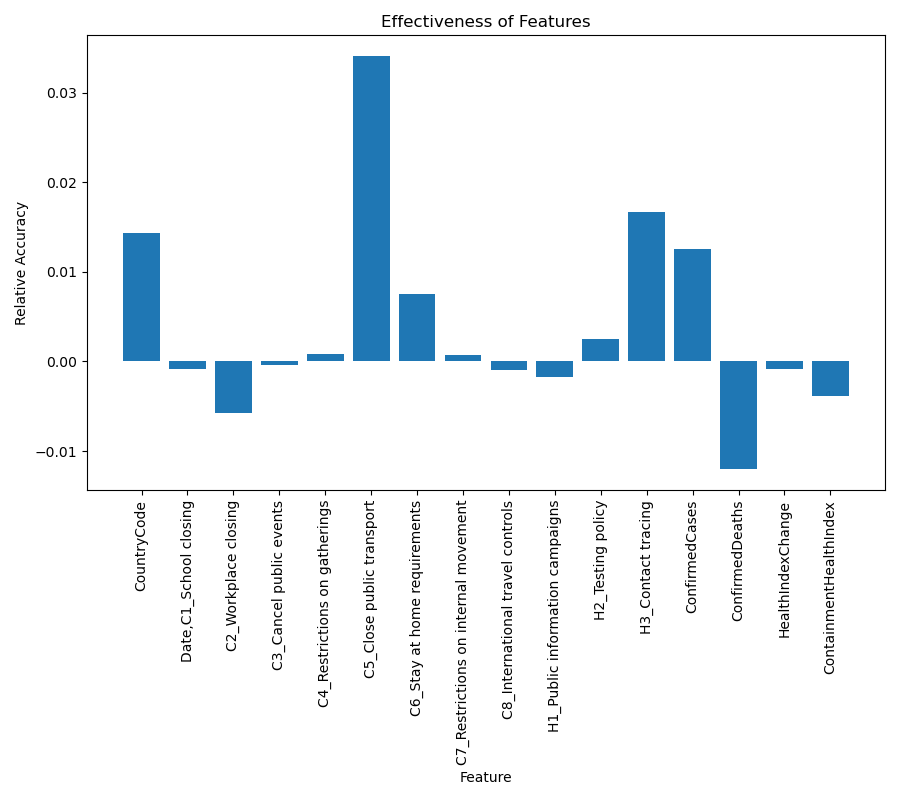
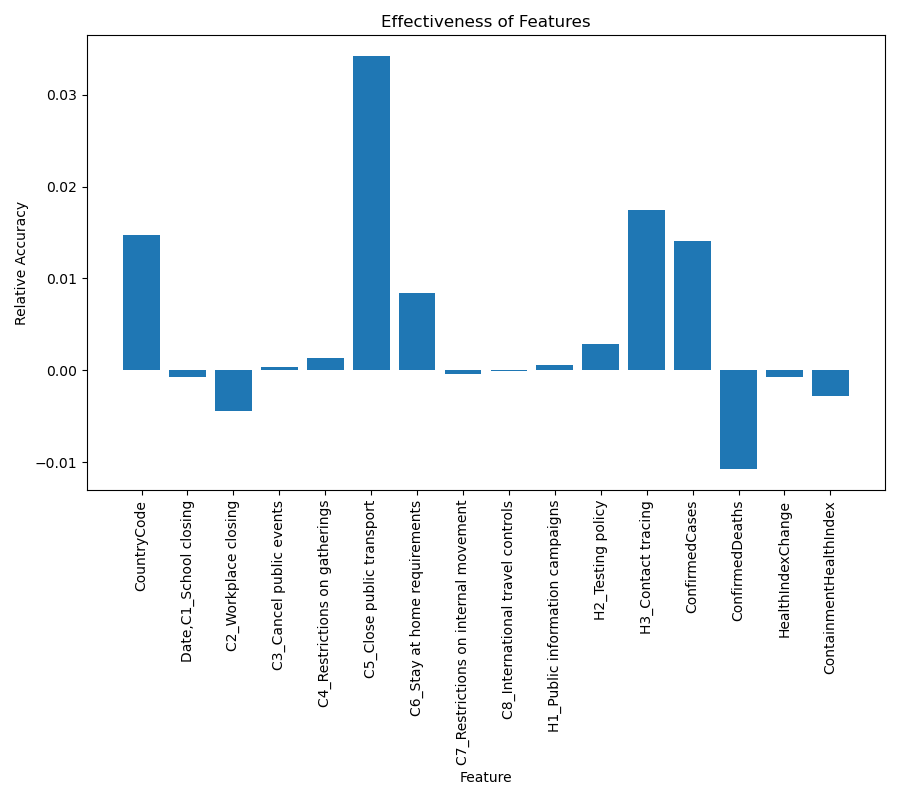
Re-add overall effectiveness chart

diff --git a/src/feature_effectiveness.py b/src/feature_effectiveness.py
@@ -22,7 +22,9 @@ project_path = path.abspath(path.dirname(__file__))
 def main():
     datasets = get_dataset()
 
-
+    overall_effectiveness = []
+    for featureName in datasets[0]["feature_names"]:
+            overall_effectiveness.append({featureName: 0})
     # for x in range(0,100):
     for dataset in datasets:
         avg_effectiveness = []
@@ -55,6 +57,9 @@ def main():
                 for item in avg_effectiveness:
                     if feature_dropped in item.keys():
                         item[feature_dropped] += relative_effectiveness
+                for item2 in overall_effectiveness:
+                    if feature_dropped in item2.keys():
+                        item2[feature_dropped] += relative_effectiveness
         objects = []
         scores = []
         axis=[]
@@ -74,6 +79,24 @@ def main():
         plt.savefig(output_path)
         plt.clf()
 
+    objects = []
+    scores = []
+    axis=[]
+    for c in range(0,len(avg_effectiveness)):
+        axis.append(c)
+        objects.append(features[c])
+        scores.append(list(overall_effectiveness[c].values())[0]/(100 * len(dataset)))
+
+    plt.figure(figsize=(9,8))
+    plt.bar(objects, scores)
+    plt.ylabel('Relative Accuracy')
+    plt.xlabel('Feature')
+    plt.xticks(rotation=90)
+    plt.title('Effectiveness of Features')
+    plt.tight_layout()
+    output_path = path.join(project_path, "..", f"./outputs/avg_accuracy_features_overall")
+    plt.savefig(output_path)
+    plt.clf()
     pass
 
 
